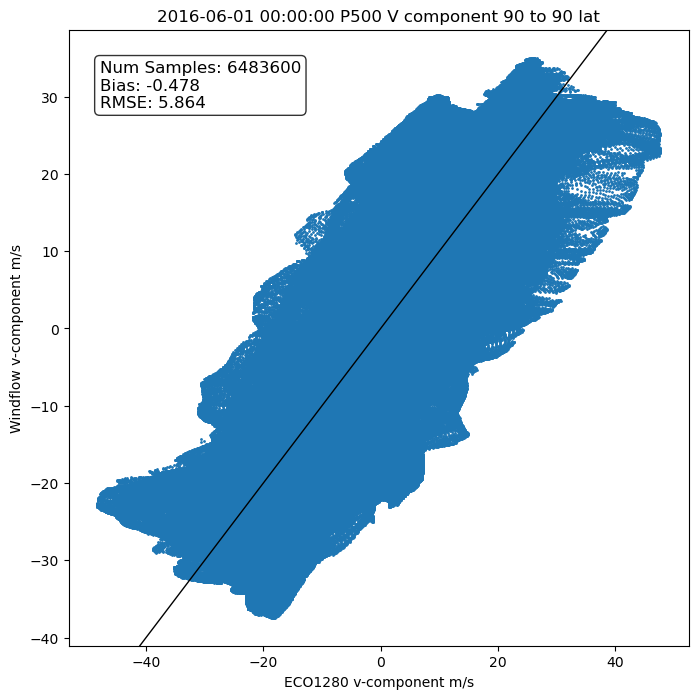
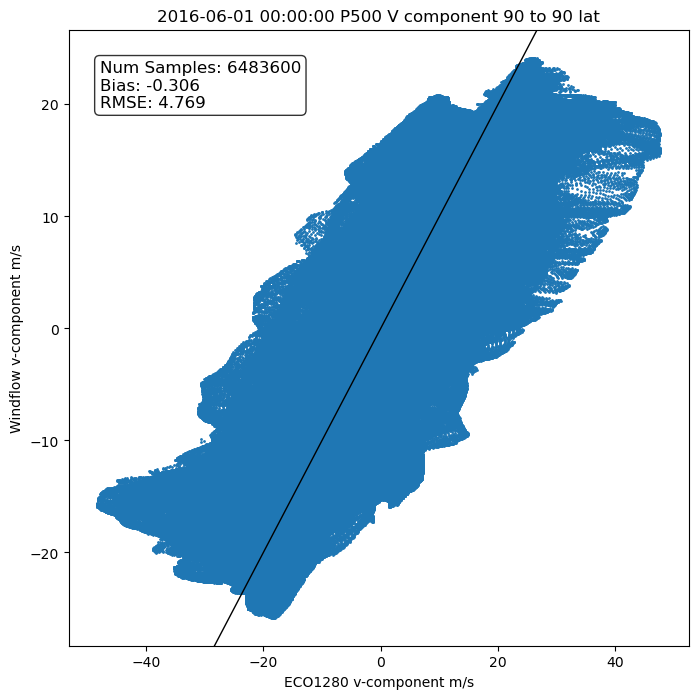
improved plots

diff --git a/validity_testing.py b/validity_testing.py
@@ -1,0 +1,103 @@
+from matplotlib import pyplot as plt
+import xarray as xr
+import numpy as np
+import cartopy.crs as ccrs
+from matplotlib import cm
+from matplotlib.colors import Normalize
+from scipy.interpolate import interpn
+from eco1280_loader import load_eco1280
+import netCDF4 as nc
+
+def calculate_rmse(x, y):
+    return np.sqrt(np.nanmean((y - x) ** 2))
+
+def main():
+
+    # Load ECO1280 data
+    file1 = './data/uv_2016-06-01_00:00:00_P500_out.nc' 
+    file2 = './data/uv_2016-06-01_03:00:00_P500_out.nc'
+    eco_u, eco_v, lat, lon = load_eco1280(file1, file2)
+
+    # Load windflow data (Run 'run_windflow.py' first)
+    print('loading windflow data')
+    with nc.Dataset('data.nc', 'r') as f:
+        w_lat = f.variables['lat'][:]
+        w_lon = f.variables['lon'][:]
+        gp_rad1 = f.variables['gp_rad1'][:]
+        gp_rad2 = f.variables['gp_rad2'][:]
+        w_u = f.variables['uwind'][:]
+        w_v = f.variables['vwind'][:]
+    assert np.all(lat == w_lat)
+
+    expanded_lat = np.tile(lat, (3600, 1)).T
+    mask = (expanded_lat <= 90) & (expanded_lat >= -90)  # Mask the region of interest
+    lat_mask = np.radians(expanded_lat[mask])  # Convert latitude from degrees to radians
+
+    # Select masked regions
+    eu_mask = eco_u[mask]
+    ev_mask = eco_v[mask]
+
+    wu_mask = w_u[mask]
+    wv_mask = w_v[mask]
+
+    # Testing different multiplicative scaling values for wu_mask
+    multiplicative_factors = np.arange(0.1, 2.1, 0.01)  # Smaller iterations for multiplicative factors
+    best_multiplicative_rmse = float('inf')
+    best_multiplicative_factor = None
+    for scale in multiplicative_factors:
+        scaled_wu_mask = (wu_mask * 0.1 * 111 * 1000 * np.cos(lat_mask)*scale) / 10800
+        rmse_u = calculate_rmse(eu_mask, scaled_wu_mask)
+        print(f'RMSE for multiplicative scaling factor {scale}: {rmse_u}')
+        if rmse_u < best_multiplicative_rmse:
+            best_multiplicative_rmse = rmse_u
+            best_multiplicative_factor = scale
+    print(f'Best multiplicative scaling factor: {best_multiplicative_factor} with RMSE: {best_multiplicative_rmse}')
+   
+   # Testing different additive scaling values for wu_mask
+    additive_factors = np.arange(-1.0, 1.1, 0.05)  # Smaller iterations for additive factors
+    best_additive_rmse = float('inf')
+    best_additive_factor = None
+
+    for add in additive_factors:
+        scaled_wu_mask = (wu_mask * 111 * 1000*0.1* np.cos(lat_mask)) / 10800 + add
+        rmse_u = calculate_rmse(eu_mask, scaled_wu_mask)
+        print(f'RMSE for additive scaling factor {add}: {rmse_u}')
+        if rmse_u < best_additive_rmse:
+            best_additive_rmse = rmse_u
+            best_additive_factor = add
+
+    print(f'Best additive scaling factor: {best_additive_factor} with RMSE: {best_additive_rmse}')
+    
+    # Testing different multiplicative scaling values for wv_mask
+    multiplicative_factors = np.arange(0.1, 2.1, 0.01)  # Smaller iterations for multiplicative factors
+    best_multiplicative_rmse = float('inf')
+    best_multiplicative_factor = None
+
+    for scale in multiplicative_factors:
+        scaled_wv_mask = (wv_mask * scale * 111 * 1000*0.1) / 10800
+        rmse_v = calculate_rmse(ev_mask, scaled_wv_mask)
+        print(f'RMSE for multiplicative scaling factor {scale}: {rmse_v}')
+        if rmse_v < best_multiplicative_rmse:
+            best_multiplicative_rmse = rmse_v
+            best_multiplicative_factor = scale
+
+    print(f'Best multiplicative scaling factor: {best_multiplicative_factor} with RMSE: {best_multiplicative_rmse}')
+
+    # Testing different additive scaling values for wv_mask
+    additive_factors = np.arange(-1.0, 1.1, 0.05)  # Smaller iterations for additive factors
+    best_additive_rmse = float('inf')
+    best_additive_factor = None
+
+    for add in additive_factors:
+        scaled_wv_mask = (wv_mask * 111 * 1000*0.1) / 10800 + add
+        rmse_v = calculate_rmse(ev_mask, scaled_wv_mask)
+        print(f'RMSE for additive scaling factor {add}: {rmse_v}')
+        if rmse_v < best_additive_rmse:
+            best_additive_rmse = rmse_v
+            best_additive_factor = add
+
+    print(f'Best additive scaling factor: {best_additive_factor} with RMSE: {best_additive_rmse}')
+
+
+if __name__ == '__main__':
+    main()

diff --git a/scatter.py b/scatter.py
@@ -39,8 +39,9 @@ def main():
     wv_mask = w_v[mask]
 
     #unit conversion to m/s
-    wu_mask = (wu_mask * 0.1 * 111 * 1000*np.cos(lat_mask)) / 10800
-    wv_mask = (wv_mask * 0.1 * 111 * 1000) / 10800
+    wu_mask = (wu_mask * 0.1 * 111 * 1000 * np.cos(lat_mask)) / 10800 #Could add a *1.12 scaling term to minimize RMSE.
+    wv_mask = (wv_mask * 0.1 * 111 * 1000 * 0.69) / 10800 #The 0.69 multiplicative scaling vector was added after empirical testing
+                                                          #Minimizes RMSE but theoretically it shouldn't be needed.
 
     #calculate RMSE of v component
     x = eu_mask

diff --git a/contours.py b/contours.py
@@ -56,8 +56,9 @@ wu_mask = w_u[mask]
 wv_mask = w_v[mask]
 
 #unit conversion to m/s
-wu_mask = (wu_mask * 0.1 * 111 * 1000 * np.cos(lat_mask)) / 10800
-wv_mask = (wv_mask * 0.1 * 111 * 1000) / 10800
+wu_mask = (wu_mask * 0.1 * 111 * 1000 * np.cos(lat_mask)) / 10800 #Could add a *1.12 scaling term to minimize RMSE.
+wv_mask = (wv_mask * 0.1 * 111 * 1000 * 0.69) / 10800 #The 0.69 multiplicative scaling vector was added after empirical testing
+                                                        #Minimizes RMSE but theoretically it shouldn't be needed.
 
 #calculate windspeed and plot
 ws = (w_u**2 + w_v**2)**0.5

diff --git a/humidity.py b/humidity.py
@@ -35,8 +35,9 @@ wu_mask = w_u[mask]
 wv_mask = w_v[mask]
 
 #unit conversion to m/s
-wu_mask = (wu_mask * 0.1 * 111 * 1000 * np.cos(lat_mask)) / 10800
-wv_mask = (wv_mask * 0.1 * 111 * 1000) / 10800
+wu_mask = (wu_mask * 0.1 * 111 * 1000 * np.cos(lat_mask)) / 10800 #Could add a *1.12 scaling term to minimize RMSE.
+wv_mask = (wv_mask * 0.1 * 111 * 1000 * 0.69) / 10800 #The 0.69 multiplicative scaling vector was added after empirical testing
+                                                          #Minimizes RMSE but theoretically it shouldn't be needed.
 
 #plot
 projection = ccrs.PlateCarree()
